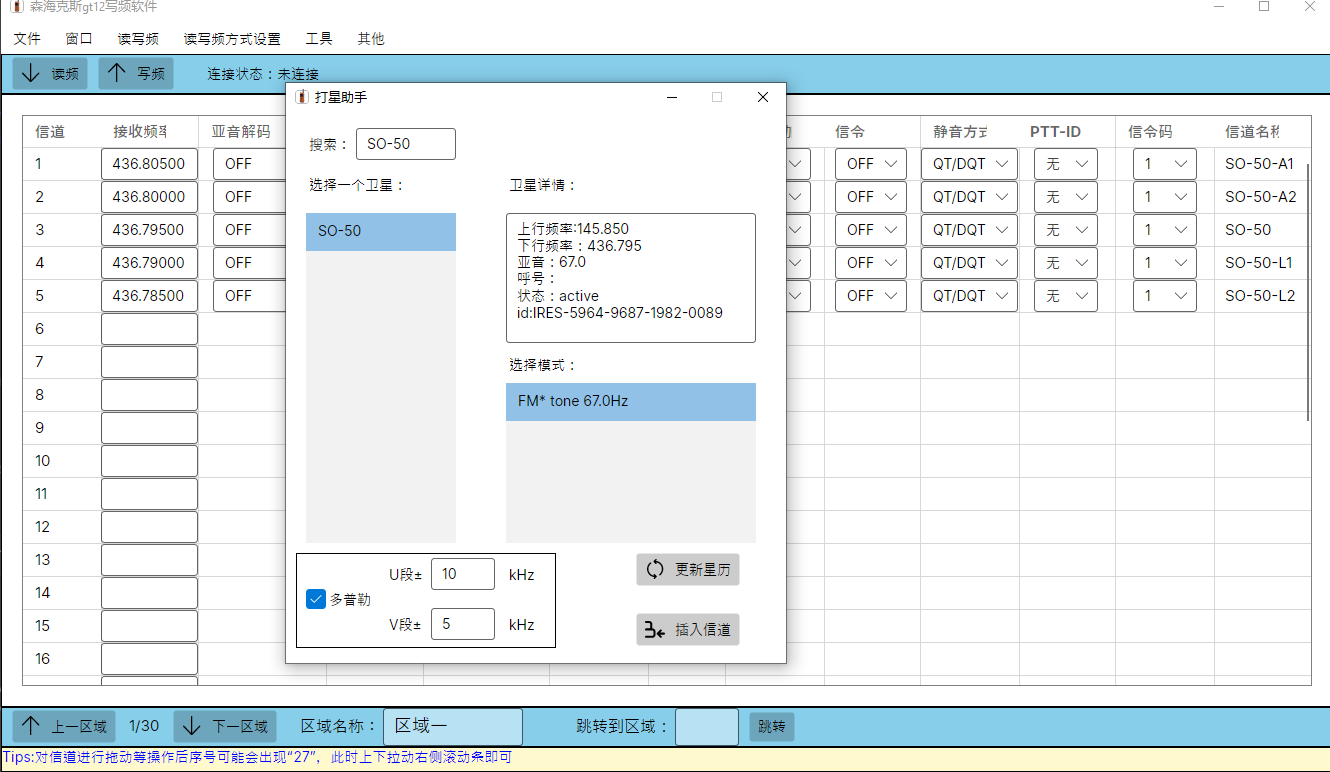
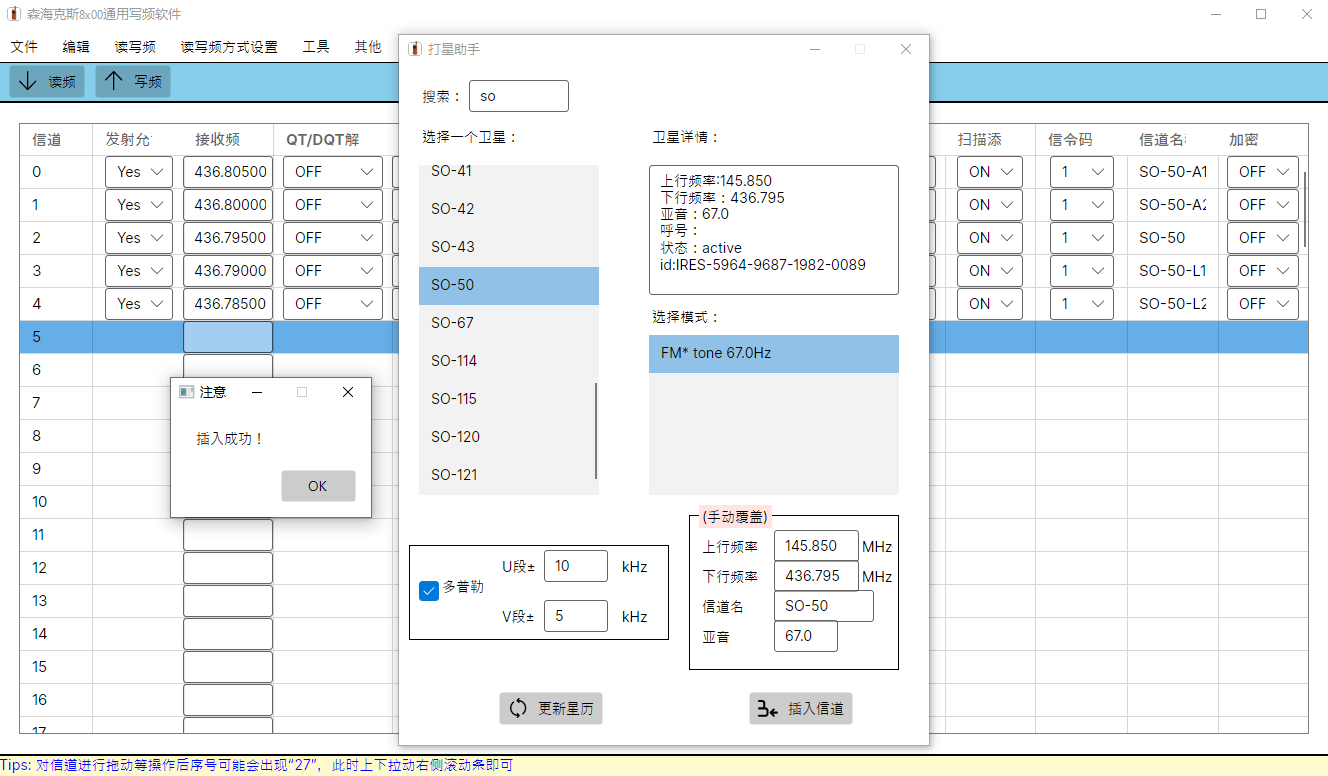
:pencil: Doc update

diff --git a/readme.md b/readme.md
@@ -30,7 +30,7 @@
 
 ### 运行平台
 
-下面列出的是测试通过的平台，其他系统或发行版请自行尝试：
+下面列出的是测试通过的平台，其他系统或发行版请自行尝试；也欢迎您在issue中告知可正常使用的系统版本！
 
 | -       | 森海克斯8800/8600/GT12通用版（Windows/Linux/macOS）          | 森海克斯8800/8600 winform版（停止维护）               | GT-12 winform版（停止维护） |
 |---------|-----------------------------------------------------|--------------------------------------------|----------------------|
@@ -52,22 +52,22 @@
 #### 蓝牙
 
 + 插件默认只编译了x64的版本，需要其他版本请自行编译。
-+ windows上没啥值得注意的，可以不勾选RPC方式写频~（当然勾了也行）
++ windows上没啥值得注意的，可以不勾选RPC方式写频（当然勾了也行，事实上更建议勾选）
 + linux和mac端同样直接写频即可，默认已勾选RPC
 
 #### 图片
 
 ##### v0.2.2后
 
-![](./readme_image/macos.jpg)
-
 ![](./readme_image/so50.png)
 
 ![](./readme_image/BootImg.png)
 
+![](./readme_image/macos.jpg)
+
 ---
 
-##### v0.2.2前
+##### v0.2.2前（不再维护）
 
 <img src="./readme_image/dep-ble.png" style="zoom:75%;" />
 
@@ -87,7 +87,7 @@
 
 + 您可以自行实现跨平台版本写频软件的蓝牙功能，只需实现Utils/BLE/Interfaces/IBluetooth.cs中的方法即可。
 
-+ 您可以自行修改SETTINGS.cs中的内容，手动启用不稳定的功能：
++ 您可以自行修改SETTINGS.cs中的内容，手动启用不稳定的功能或修改默认设置：
 
   ```csharp
   // 是否禁止在调试读写频时输出传输的数据，如禁用该选项可能极大降低HID读写速度！
@@ -106,7 +106,7 @@
   public static string LINUX_BLE_PLUGIN_NAME = "BLEPlugin_linux_x64";
   
   // RPC客户端的启动参数，可用--help查看；输出仅在开启调试功能时能看到！
-  public static string RPC_CLIENT_PROCESS_ARGS = "--verbose --no-color";
+  public static string RPC_CLIENT_PROCESS_ARGS = "--verbose --no-color --inside-call";
   ```
 
 + 蓝牙插件若有**调试需要**，需要手动编译，或勾选了“手动控制RPC”，编译具体操作如下：
@@ -127,22 +127,24 @@
   Flags:
         --address string   RPC Server address (default "127.0.0.1")
     -h, --help             help for BLE
+        --inside-call      Call from rpc server
         --no-color         No color output in console
         --port int         RPC Server port (default 8563)
         --run-test         Execute test
         --verbose          Print Debug Level logs
         --vverbose         Print Debug/Trace Level logs
+  
   ```
     4. 在写频软件中点击蓝牙搜索，正常读频写频即可
 
 ## FAQ
 
 + linux平台上写频需要`sudo`！
-+ 若在macOS上无法使用，可能需要首先执行`xattr -cr SenhaixFreqWriter.app`!
-    - 如在macOS上（在macOS13及以下可能出现该问题）无法正常使用蓝牙功能，请按如下步骤操作：
++ 如果在macOS上出现提示"无法打开，因为它来自身份不明的开发者"，请在`设置-隐私与安全性-安全性`中手动允许应用运行。或者在命令行中执行命令：`xattr -cr （.app包的路径）`。
++ 如在macOS上（在macOS13及以下可能出现该问题）无法正常使用蓝牙功能，请按如下步骤操作：
     1. 下载Release中的“macOS-ble-helper”；
     2. 打开写频软件后双击运行“macOS-ble-helper” ；
-    3. 正常使用蓝牙读写频即可
+    3. 勾选“手动调用RPC”后正常使用蓝牙读写频即可。
 
 ## 其他
 
@@ -185,13 +187,13 @@ shx8x00软件原理:见 [ble-connector](https://github.com/SydneyOwl/shx8800-ble
 
 `v0.3.1` 优化使用插件的写频速度（linux和macOS），目前接近写频线速度
 
-`v0.3.2` 允许打星助手自定义信道名称、频率及亚音；升级Avalonia
+`v0.3.2` 允许打星助手自定义信道名称、频率及亚音，升级Avalonia版本，蓝牙插件性能改进
 
 ## Thanks...
 
 + `SenHaiX`的原版写频软件
 + `Avalonia` 的跨平台UI方案
-+ `tinygo`的ble方案
++ `tinygo`的BLE方案
 + `HIDSharp`的HID交互方案
 + [@rockliuxn](https://github.com/rockliuxn) 提供的图标，以及测试阶段的支持！
 + and more.....
